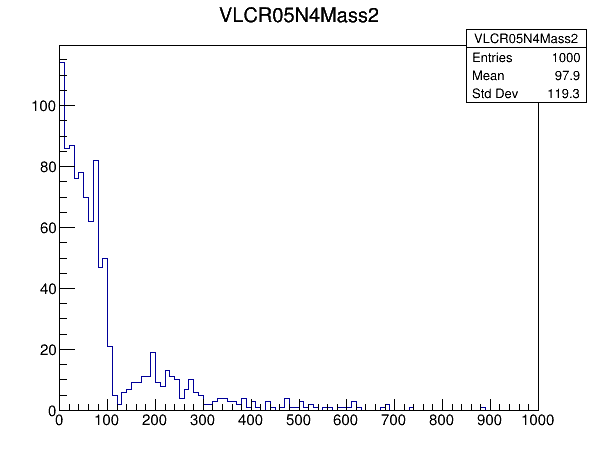
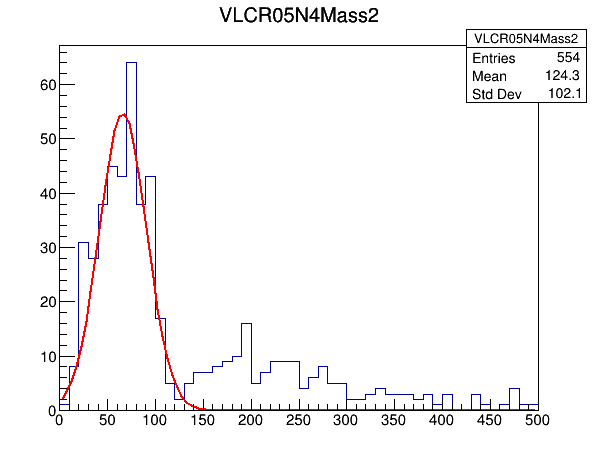
Update on truth check and fit

diff --git a/Delphes/src/AnalyzeM.C b/Delphes/src/AnalyzeM.C
@@ -32,17 +32,21 @@ void AnalyzeM(const char *inputFile, const char *outputFile){
      TFile *output = new TFile(outputFile, "recreate");
      TTree *tree_sig = (TTree*)file_sig->Get("Delphes");
      TTree *tree_output = new TTree("tree_output","Delphes");
-     TLeaf *VLCjetR05N4_size = tree_sig->GetLeaf("VLCjetR05N4_size");
 
+     TLeaf *VLCjetR05N4_size = tree_sig->GetLeaf("VLCjetR05N4_size");
      TLeaf *VLCjetR05N4_eta = tree_sig->GetLeaf("VLCjetR05N4.Eta");
      TLeaf *VLCjetR05N4_phi = tree_sig->GetLeaf("VLCjetR05N4.Phi");
      TLeaf *VLCjetR05N4_pt = tree_sig->GetLeaf("VLCjetR05N4.PT");
      TLeaf *VLCjetR05N4_mass = tree_sig->GetLeaf("VLCjetR05N4.Mass");
 
+     TLeaf *GenJet_size = tree_sig->GetLeaf("GenJet_size");
+     TLeaf *GenJet_eta = tree_sig->GetLeaf("GenJet.Eta");
+     TLeaf *GenJet_phi = tree_sig->GetLeaf("GenJet.Phi");
+
      Int_t nEntries = tree_sig->GetEntries();
 
-     TH1D *VLCR05N4Mass1 = new TH1D("VLCR05N4Mass1", "VLCR05N4Mass1", 100 , 0, 1000); 
-     TH1D *VLCR05N4Mass2 = new TH1D("VLCR05N4Mass2", "VLCR05N4Mass2", 100 , 0, 1000); 
+     TH1D *VLCR05N4Mass1 = new TH1D("VLCR05N4Mass1", "VLCR05N4Mass1", 50 , 0, 300); 
+     TH1D *VLCR05N4Mass2 = new TH1D("VLCR05N4Mass2", "VLCR05N4Mass2", 50 , 0, 500); 
 
      Double_t VLC1eta;
      Double_t VLC1phi;
@@ -53,23 +57,31 @@ void AnalyzeM(const char *inputFile, const char *outputFile){
      Double_t VLC2pt;
      Double_t VLC2mass;
      Double_t VLCR05N4pairmass;
+     Double_t Gen1eta;
+     Double_t Gen1phi;
+     Double_t Gen2eta;
+     Double_t Gen2phi;
+
      Int_t pair1jet1entry;
      Int_t pair1jet2entry;
      Int_t pair2jet1entry;
      Int_t pair2jet2entry;
 
+     cout << "start";
      for(Long64_t entry=0; entry < nEntries; entry++){
 	 tree_sig->GetEntry(entry);
 	 tree_output->GetEntry(entry);
 	 VLCjetR05N4_size->GetBranch()->GetEntry(entry);
          
 	 Int_t nVLCjet = VLCjetR05N4_size->GetValue();
+	 Int_t nGenJet = GenJet_size->GetValue();
 
 	 VLCjetR05N4_phi->GetBranch()->GetEntry(entry);
 	 VLCjetR05N4_phi->GetBranch()->GetEntry(entry);
 	 VLCjetR05N4_pt->GetBranch()->GetEntry(entry);
 	 VLCjetR05N4_mass->GetBranch()->GetEntry(entry);
 	 Double_t VLCR05N4pair1Mass = 0;
+	 Double_t VLCR05N4subpairmass = 0;
 
 	 for(Int_t vlc1entry=0; vlc1entry < nVLCjet; vlc1entry++){
 	     for(Int_t vlc2entry=vlc1entry+1; vlc2entry < nVLCjet; vlc2entry++){
@@ -96,6 +108,7 @@ void AnalyzeM(const char *inputFile, const char *outputFile){
 		     VLCR05N4pair1Mass = VLCR05N4pairmass;
 		     pair1jet1entry = vlc1entry;
 		     pair1jet2entry = vlc2entry;
+
 		 }		 	 
 	     }  
 	 }
@@ -120,6 +133,43 @@ void AnalyzeM(const char *inputFile, const char *outputFile){
          VLC2pt = VLCjetR05N4_pt->GetValue(pair2jet2entry);
          VLC2mass = VLCjetR05N4_mass->GetValue(pair2jet2entry);
 
+	 bool VLC1flag = false;
+	 bool VLC2flag = false;
+         Float_t jet1DeltaR = 100;
+         Float_t jet2DeltaR = 100;
+	 Int_t jet1entry;
+
+	 for(Int_t gen1entry=0; gen1entry < nGenJet; gen1entry++){
+  	     Gen1eta = GenJet_eta->GetValue(gen1entry);
+	     Gen1phi = GenJet_phi->GetValue(gen1entry);
+	     Float_t jet1DeltaRtmp = TMath::Sqrt(pow((VLC1eta-Gen1eta),2)+pow((VLC1phi-Gen1phi),2));
+	     //cout << jet1DeltaRtmp << "|";
+	     if(jet1DeltaRtmp < jet1DeltaR){
+	         jet1DeltaR = jet1DeltaRtmp;
+		 jet1entry = gen1entry;
+		 if (jet1DeltaR < 0.25){
+		     VLC1flag = true;
+	             //cout << "the first jet in the "<<entry<< "th event pass the check."<<endl;	 
+		 }
+	     }  
+         }
+         for(Int_t gen2entry=0; gen2entry < nGenJet; gen2entry++){
+  	     Gen2eta = GenJet_eta->GetValue(gen2entry);
+	     Gen2phi = GenJet_phi->GetValue(gen2entry);
+	     Float_t jet2DeltaRtmp = TMath::Sqrt(pow((VLC2eta-Gen2eta),2)+pow((VLC2phi-Gen2phi),2));
+	     if (gen2entry != jet1entry){
+                 if(jet2DeltaRtmp < jet2DeltaR){
+	             jet2DeltaR = jet2DeltaRtmp;
+		     Int_t jet2entry = gen2entry;
+                     if (jet2DeltaR < 0.25){
+		         VLC2flag = true;
+	                 //cout << "the second jet in the "<<entry<< "th event pass the check."<<endl;	 
+			   
+		     }
+	         }
+	     }
+         }
+	 
          Double_t VLCR05N4pair2Mass = 0;
          TLorentzVector h2;
          TLorentzVector jet1;
@@ -130,21 +180,31 @@ void AnalyzeM(const char *inputFile, const char *outputFile){
 	 VLCR05N4pair2Mass = h2.Mag();
          //VLCR05N4pair2Mass = TMath::Sqrt(2*VLC1pt*VLC2pt*(TMath::CosH(VLC1eta-VLC2eta)-TMath::Cos(VLC1phi-VLC2phi)));
 	 
-	 VLCR05N4Mass1->Fill(VLCR05N4pair1Mass);
-         VLCR05N4Mass2->Fill(VLCR05N4pair2Mass);
-
-	 //cout << pair1jet1entry <<"|"<<pair1jet2entry<<"|"<<pair2jet1entry<<"|"<<pair2jet2entry<<endl;
+         if(VLC1flag==true and VLC2flag==true){
+	     VLCR05N4Mass1->Fill(VLCR05N4pair1Mass);
+             VLCR05N4Mass2->Fill(VLCR05N4pair2Mass);
+	 } else {
+	     cout << "the second jet pair in the "<<entry<< "th event failed check."<<endl;	 
+         }
      }
+     TF1 *jetpair1gausfit = new TF1("jetpair1gausfit", "gaus",50,200);
+     TF1 *jetpair2gausfit = new TF1("jetpair2gausfit", "gaus",0,300);
+     
+     TCanvas *mycanvas = new TCanvas("mycanvas","My Canvas",200,10,600,480);
+     //VLCR05N4Mass1->Draw();
+     VLCR05N4Mass1->Fit("jetpair1gausfit");
+
+     mycanvas->SaveAs("VLCR05N4pair1Mass.png");
+     //VLCR05N4Mass2->Draw();
+     VLCR05N4Mass2->Fit("jetpair2gausfit");
+
+     mycanvas->SaveAs("VLCR05N4pair2Mass.png");
      VLCR05N4Mass1->Write();
      VLCR05N4Mass2->Write();
 
      tree_output->Write();
-     TCanvas *mycanvas = new TCanvas("mycanvas","My Canvas",200,10,600,480);
-     VLCR05N4Mass1->Draw();
-     mycanvas->SaveAs("VLCR05N4pair1Mass.png");
-     VLCR05N4Mass2->Draw();
-     mycanvas->SaveAs("VLCR05N4pair2Mass.png");
-     
+
+
      output->Close();
      file_sig->Close();
 }
